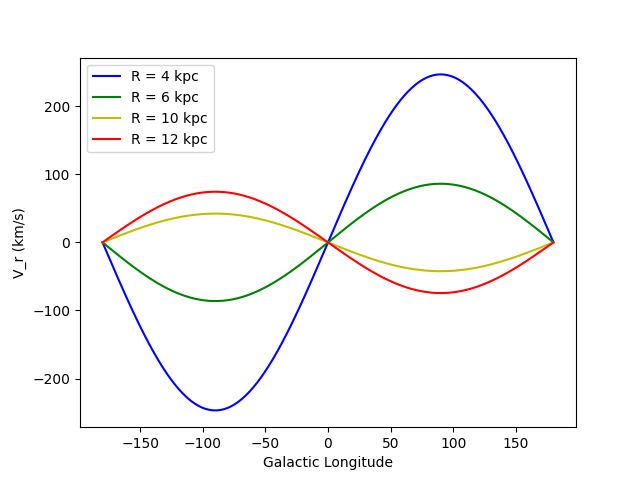
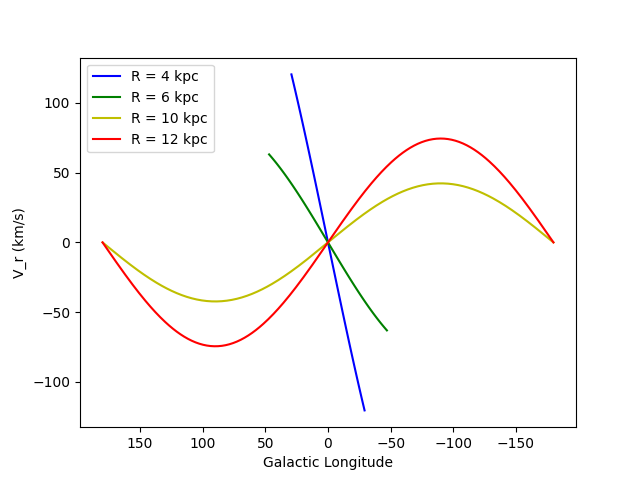
fixed a geometric impossibility

diff --git a/HW3/HW3Q3.py b/HW3/HW3Q3.py
@@ -4,11 +4,8 @@ import matplotlib.pyplot as plt
 solarR = 8.2 #kpc
 solarTheta = 235 #km/s
 
-longStep = 1
-stepCount = int(360/longStep)
-
 radArray = [4,6,10,12] #kpc
-longArray = np.linspace(-180, 180, endpoint=True, num = stepCount)
+
 
 def radialVelocity(long, rad): #long in degrees, galactocentric radius in kpc, km/s
     return solarTheta * (1/rad - 1/solarR) * solarR * np.sin(np.deg2rad(long))
@@ -16,11 +13,16 @@ def radialVelocity(long, rad): #long in degrees, galactocentric radius in kpc, k
 fig, ax = plt.subplots()
 styles = ["-b", "-g", "-y", "-r"]
 for i in range(len(radArray)):
+    if radArray[i] > solarR: #Outer galactic, visible in full sky
+        longArray = np.linspace(-180, 180, endpoint=True, num = 360)    
+    else: #Inner galactic, longitude is limited
+        maxL = np.rad2deg(np.arcsin(radArray[i]/solarR))
+        longArray = np.linspace(-maxL, maxL, endpoint=True, num = int(2*maxL))
     thisLine, = ax.plot(longArray, [radialVelocity(l, radArray[i]) for l in longArray], styles[i])
     thisLine.set_label(f"R = {radArray[i]} kpc")
 
 ax.set_xlabel("Galactic Longitude")
 ax.set_ylabel("V_r (km/s)")
-
+ax.invert_xaxis()
 ax.legend()
 plt.show()
